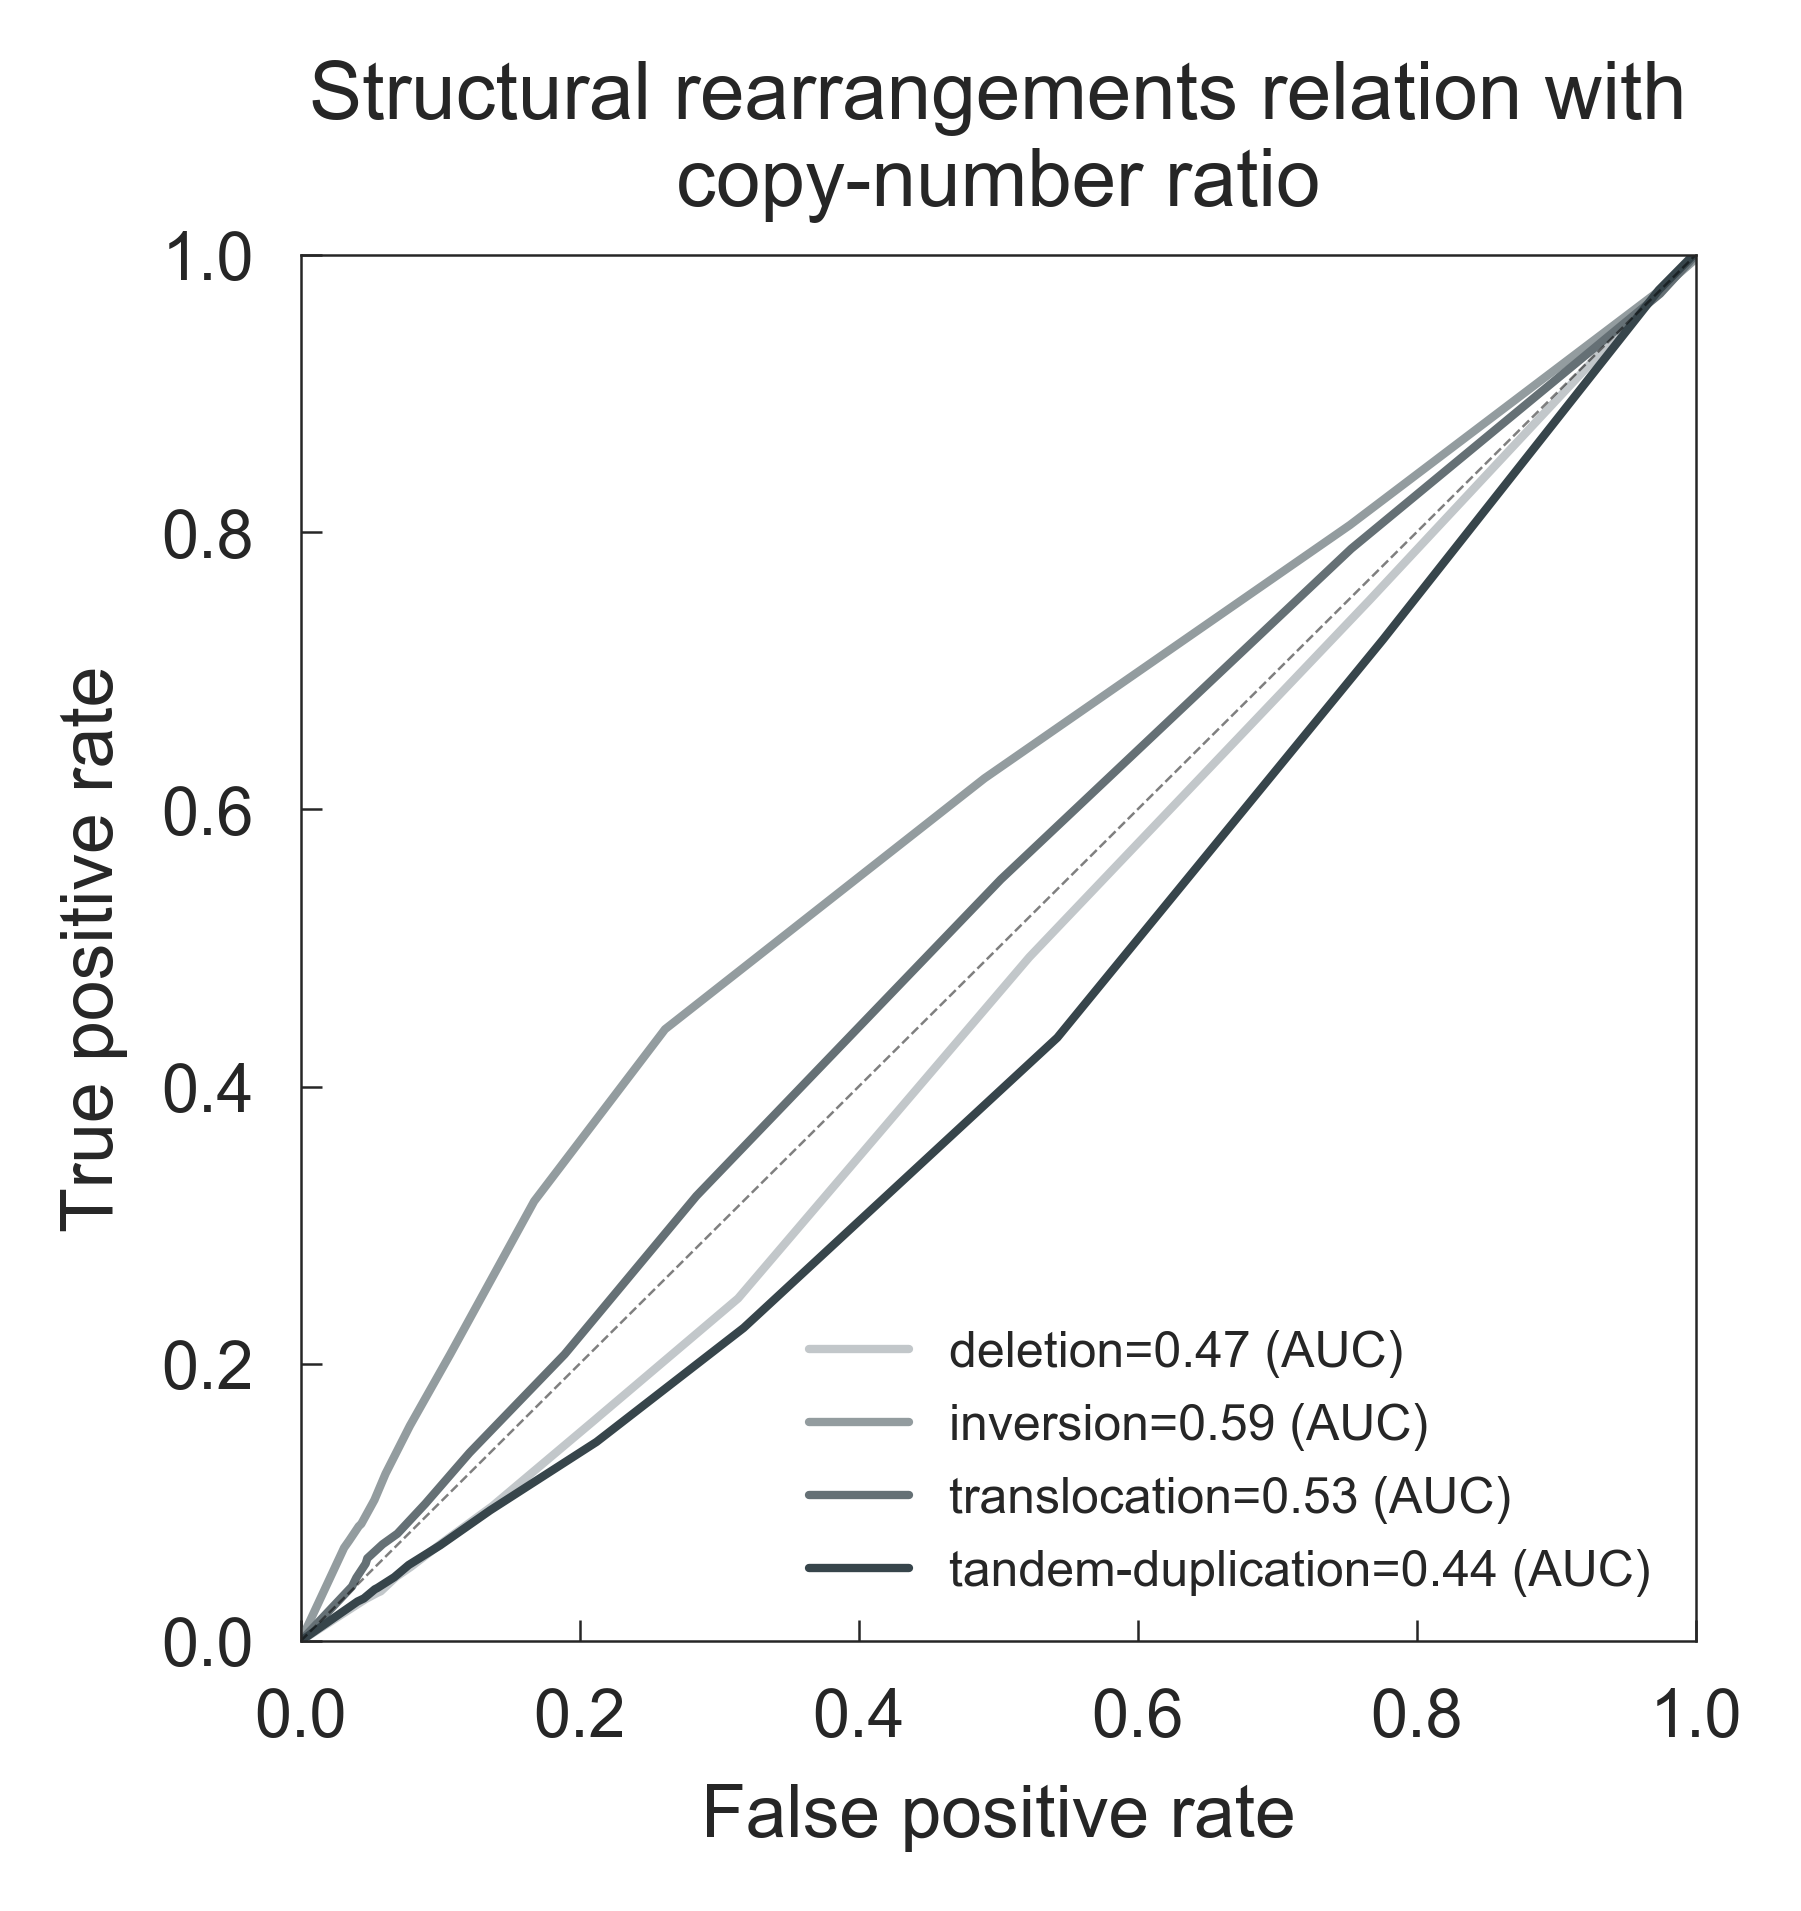
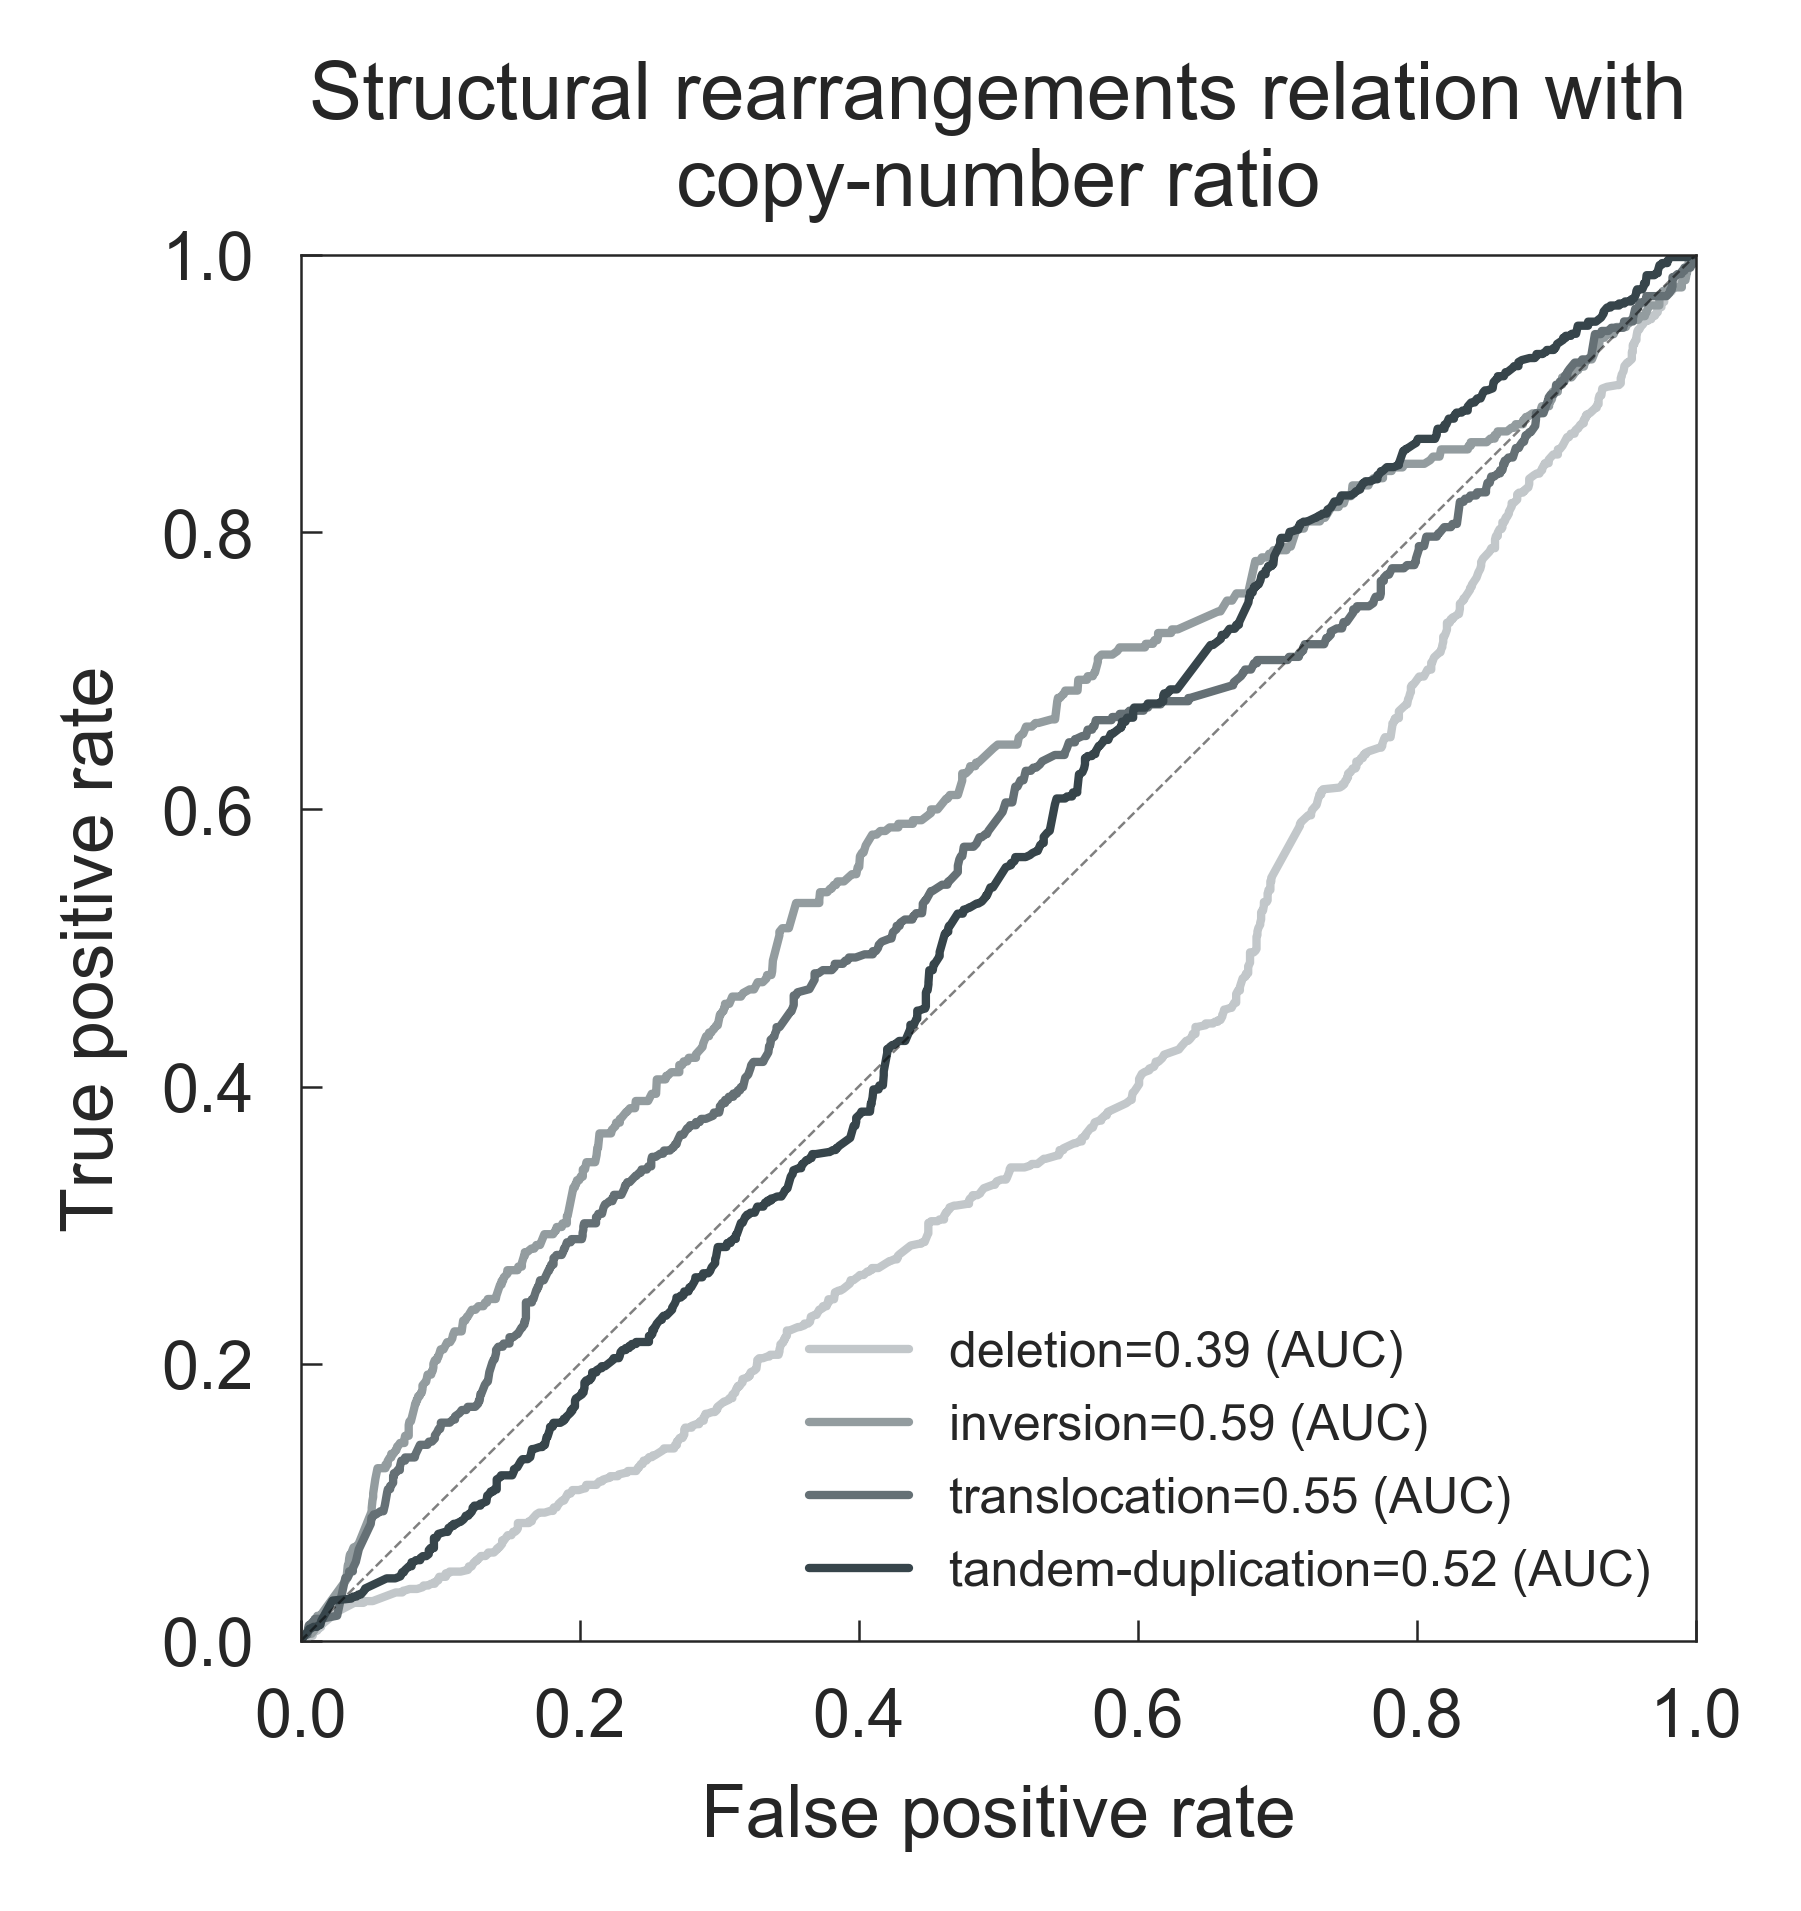
SV brass updated

diff --git a/scripts/crispy/wgs_brass_cnv_ratio.py b/scripts/crispy/wgs_brass_cnv_ratio.py
@@ -13,18 +13,10 @@ from sklearn.metrics import roc_curve, auc
 
 # - Import
 # Brass
-brass_files = filter(lambda x: x.endswith('.brass.annot.bedpe'), os.listdir('data/gdsc/wgs/brass_bedpe/'))
-brass_df = pd.concat([pd.read_csv('data/gdsc/wgs/brass_bedpe/%s' % f, skiprows=110, sep='\t') for f in brass_files]).reset_index(drop=True)
-brass_df.to_csv('data/gdsc/wgs/wgs_brass_bedpe.csv')
+brass_df = pd.read_csv('data/gdsc/wgs/wgs_brass_bedpe.csv')
 
 # Gene copy-number ratio
 cnv_ratios = pd.read_csv('data/crispy_copy_number_ratio.csv', index_col=0).replace(-1, np.nan)
-
-# Copy-number absolute counts
-cnv_abs = pd.read_csv('data/crispy_gene_copy_number.csv', index_col=0).replace(-1, np.nan)
-
-# GDSC CRISPR
-c_gdsc_fc = pd.read_csv('data/crispr_gdsc_logfc.csv', index_col=0)
 
 # GDSC CRISPR mean bias
 c_gdsc = pd.DataFrame({
@@ -42,14 +34,15 @@ print('Samples: ', len(samples), 'Genes: ', len(genes))
 
 # -
 sv_ratio = brass_df.loc[list(map(lambda x: len(x.split(',')) == 1, brass_df['sample']))]
+sv_ratio = sv_ratio[~sv_ratio['# chr1'].isin(['X', 'Y'])]
+sv_ratio = sv_ratio.query("copynumber_flag == 1 & assembly_score != '_'")
 
 sv_ratio = pd.melt(sv_ratio, id_vars=['sample', 'svclass'], value_vars=['gene1', 'gene2']).query("value != '_'")
 sv_ratio = sv_ratio[sv_ratio['value'].isin(genes) & sv_ratio['sample'].isin(samples)]
 
-sv_ratio = sv_ratio.assign(ratio=[cnv_abs.loc[g, s] for g, s in sv_ratio[['value', 'sample']].values]).dropna().sort_values('ratio')
+sv_ratio = sv_ratio.assign(ratio=[cnv_ratios.loc[g, s] for g, s in sv_ratio[['value', 'sample']].values]).dropna().sort_values('ratio')
 sv_ratio = sv_ratio.drop_duplicates(subset=['sample', 'svclass', 'value'])
 
-# sv_ratio = sv_ratio.assign(crispr=c_gdsc_fc.unstack().loc[[(s, g) for g, s in sv_ratio[['value', 'sample']].values]].values)
 # sv_ratio = sv_ratio.assign(crispy=c_gdsc.unstack().loc[[(s, g) for g, s in sv_ratio[['value', 'sample']].values]].values)
 
 
